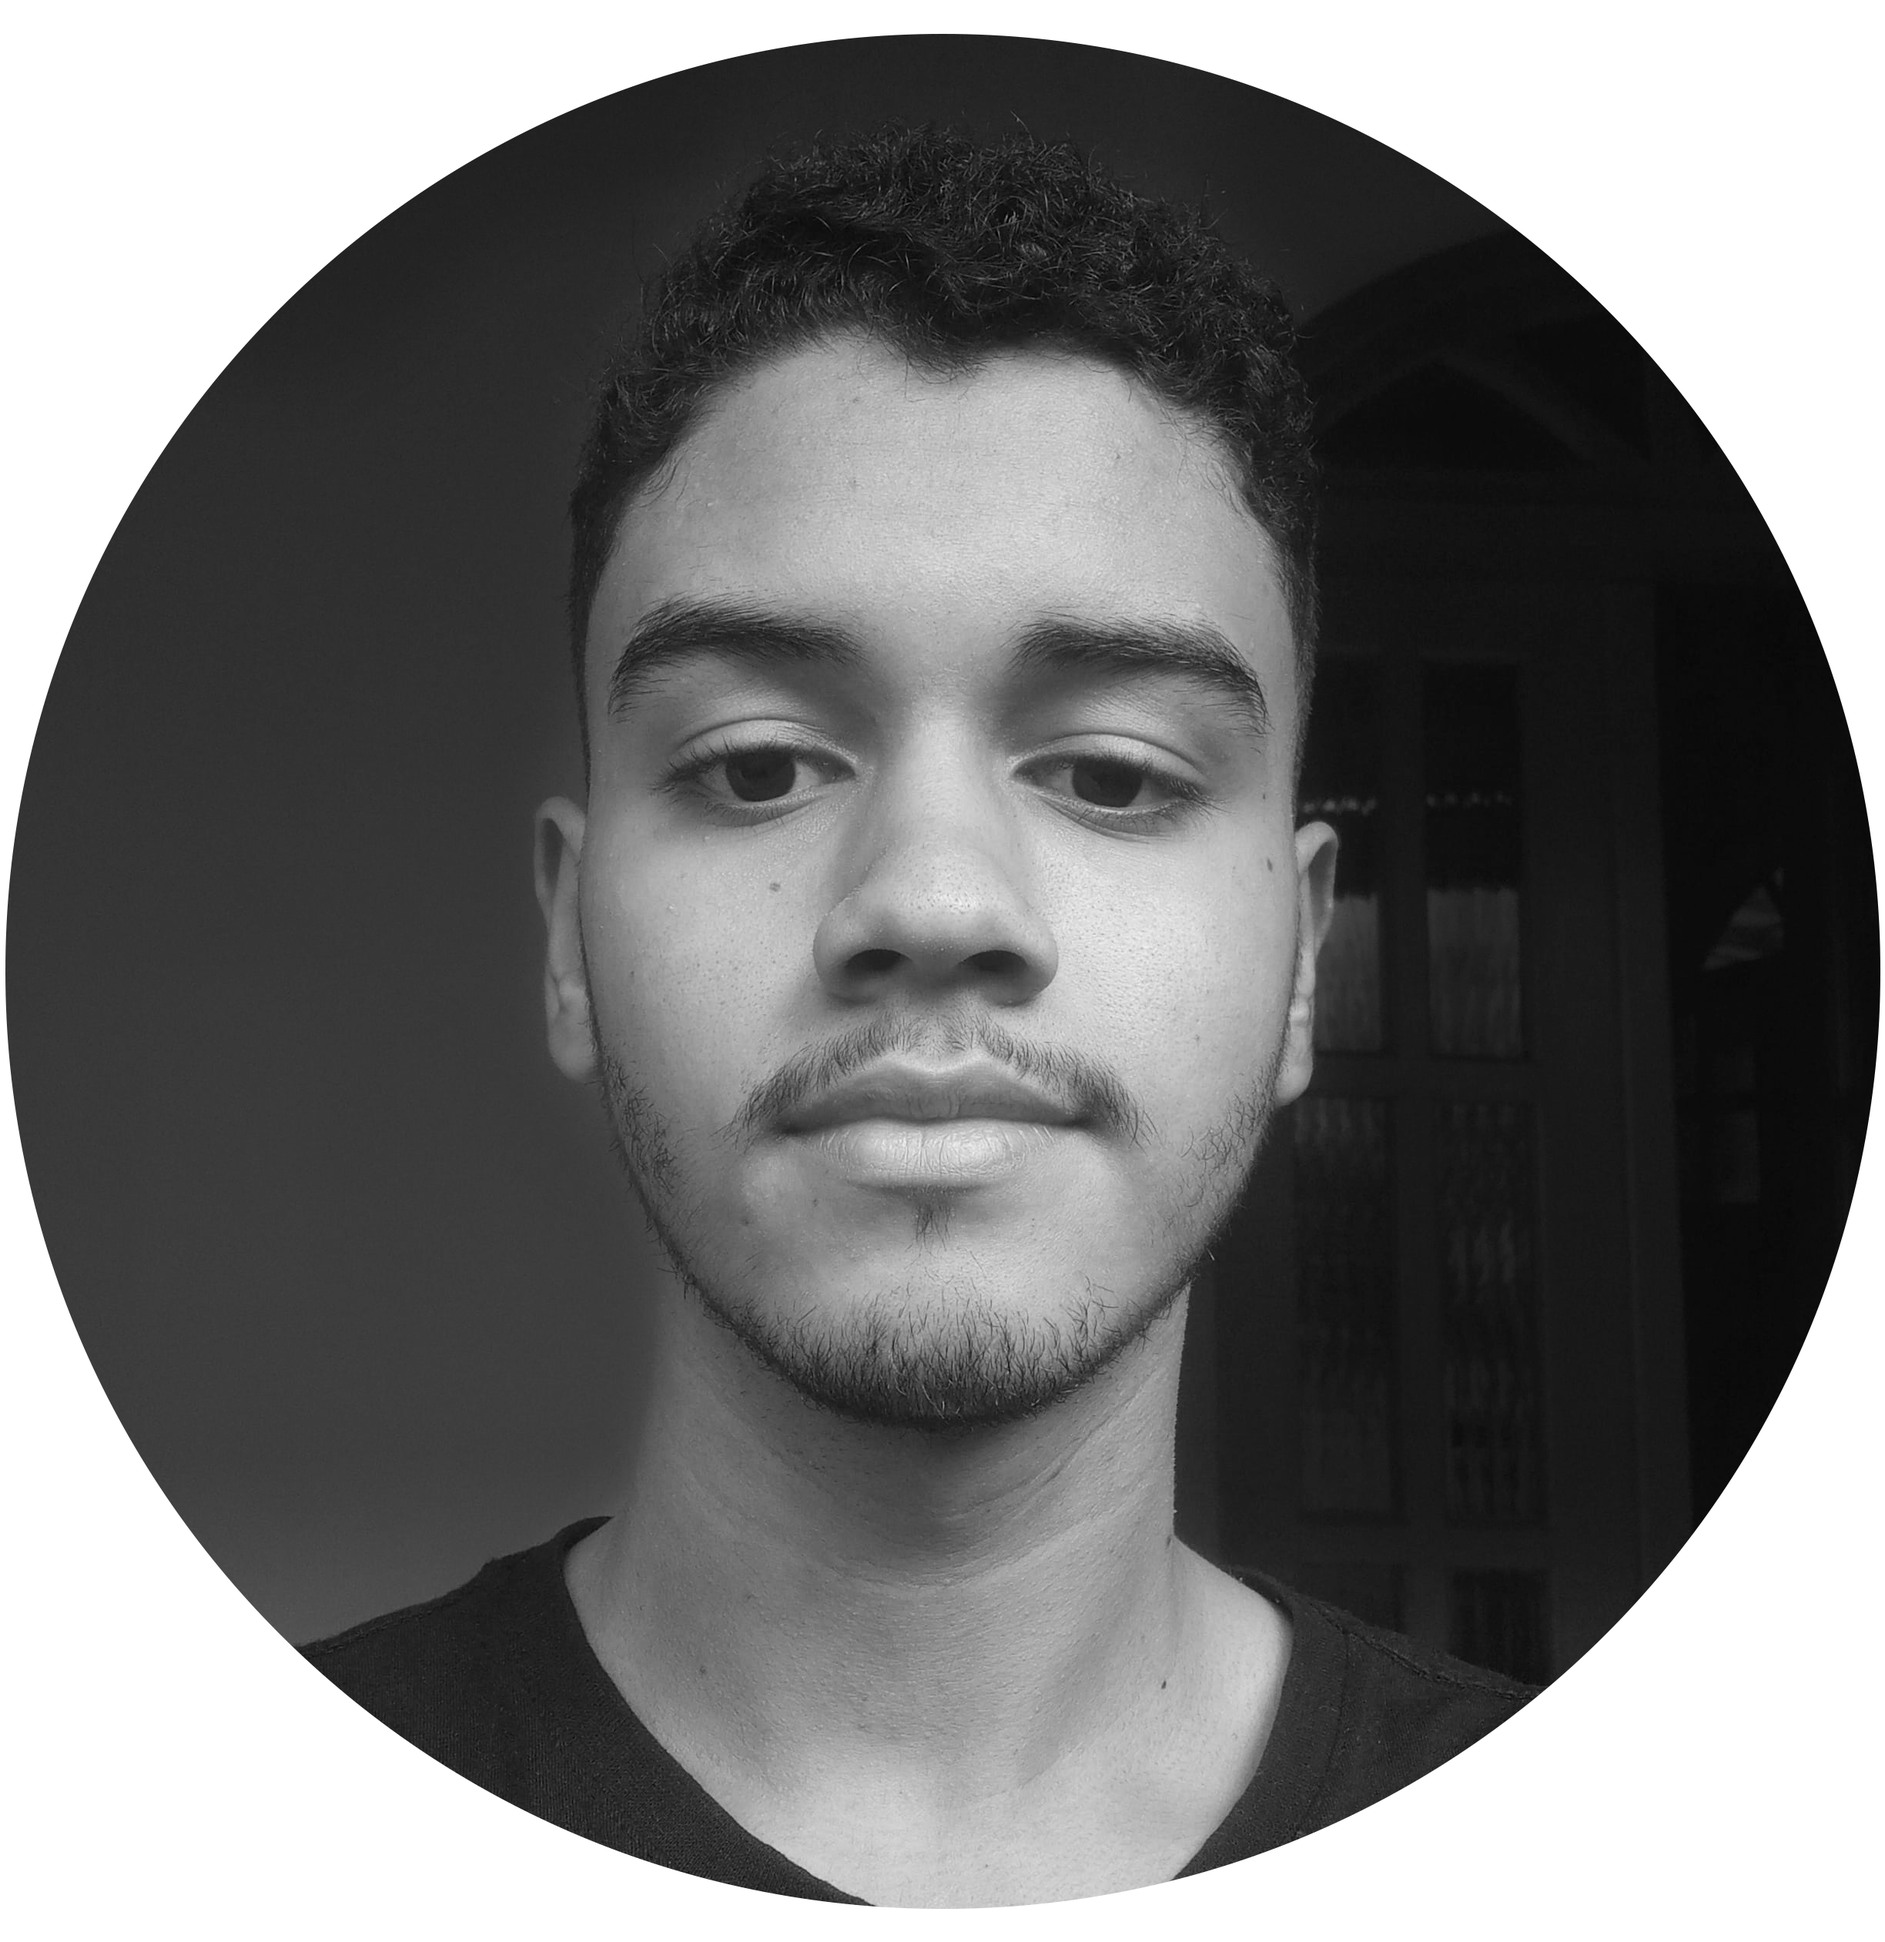
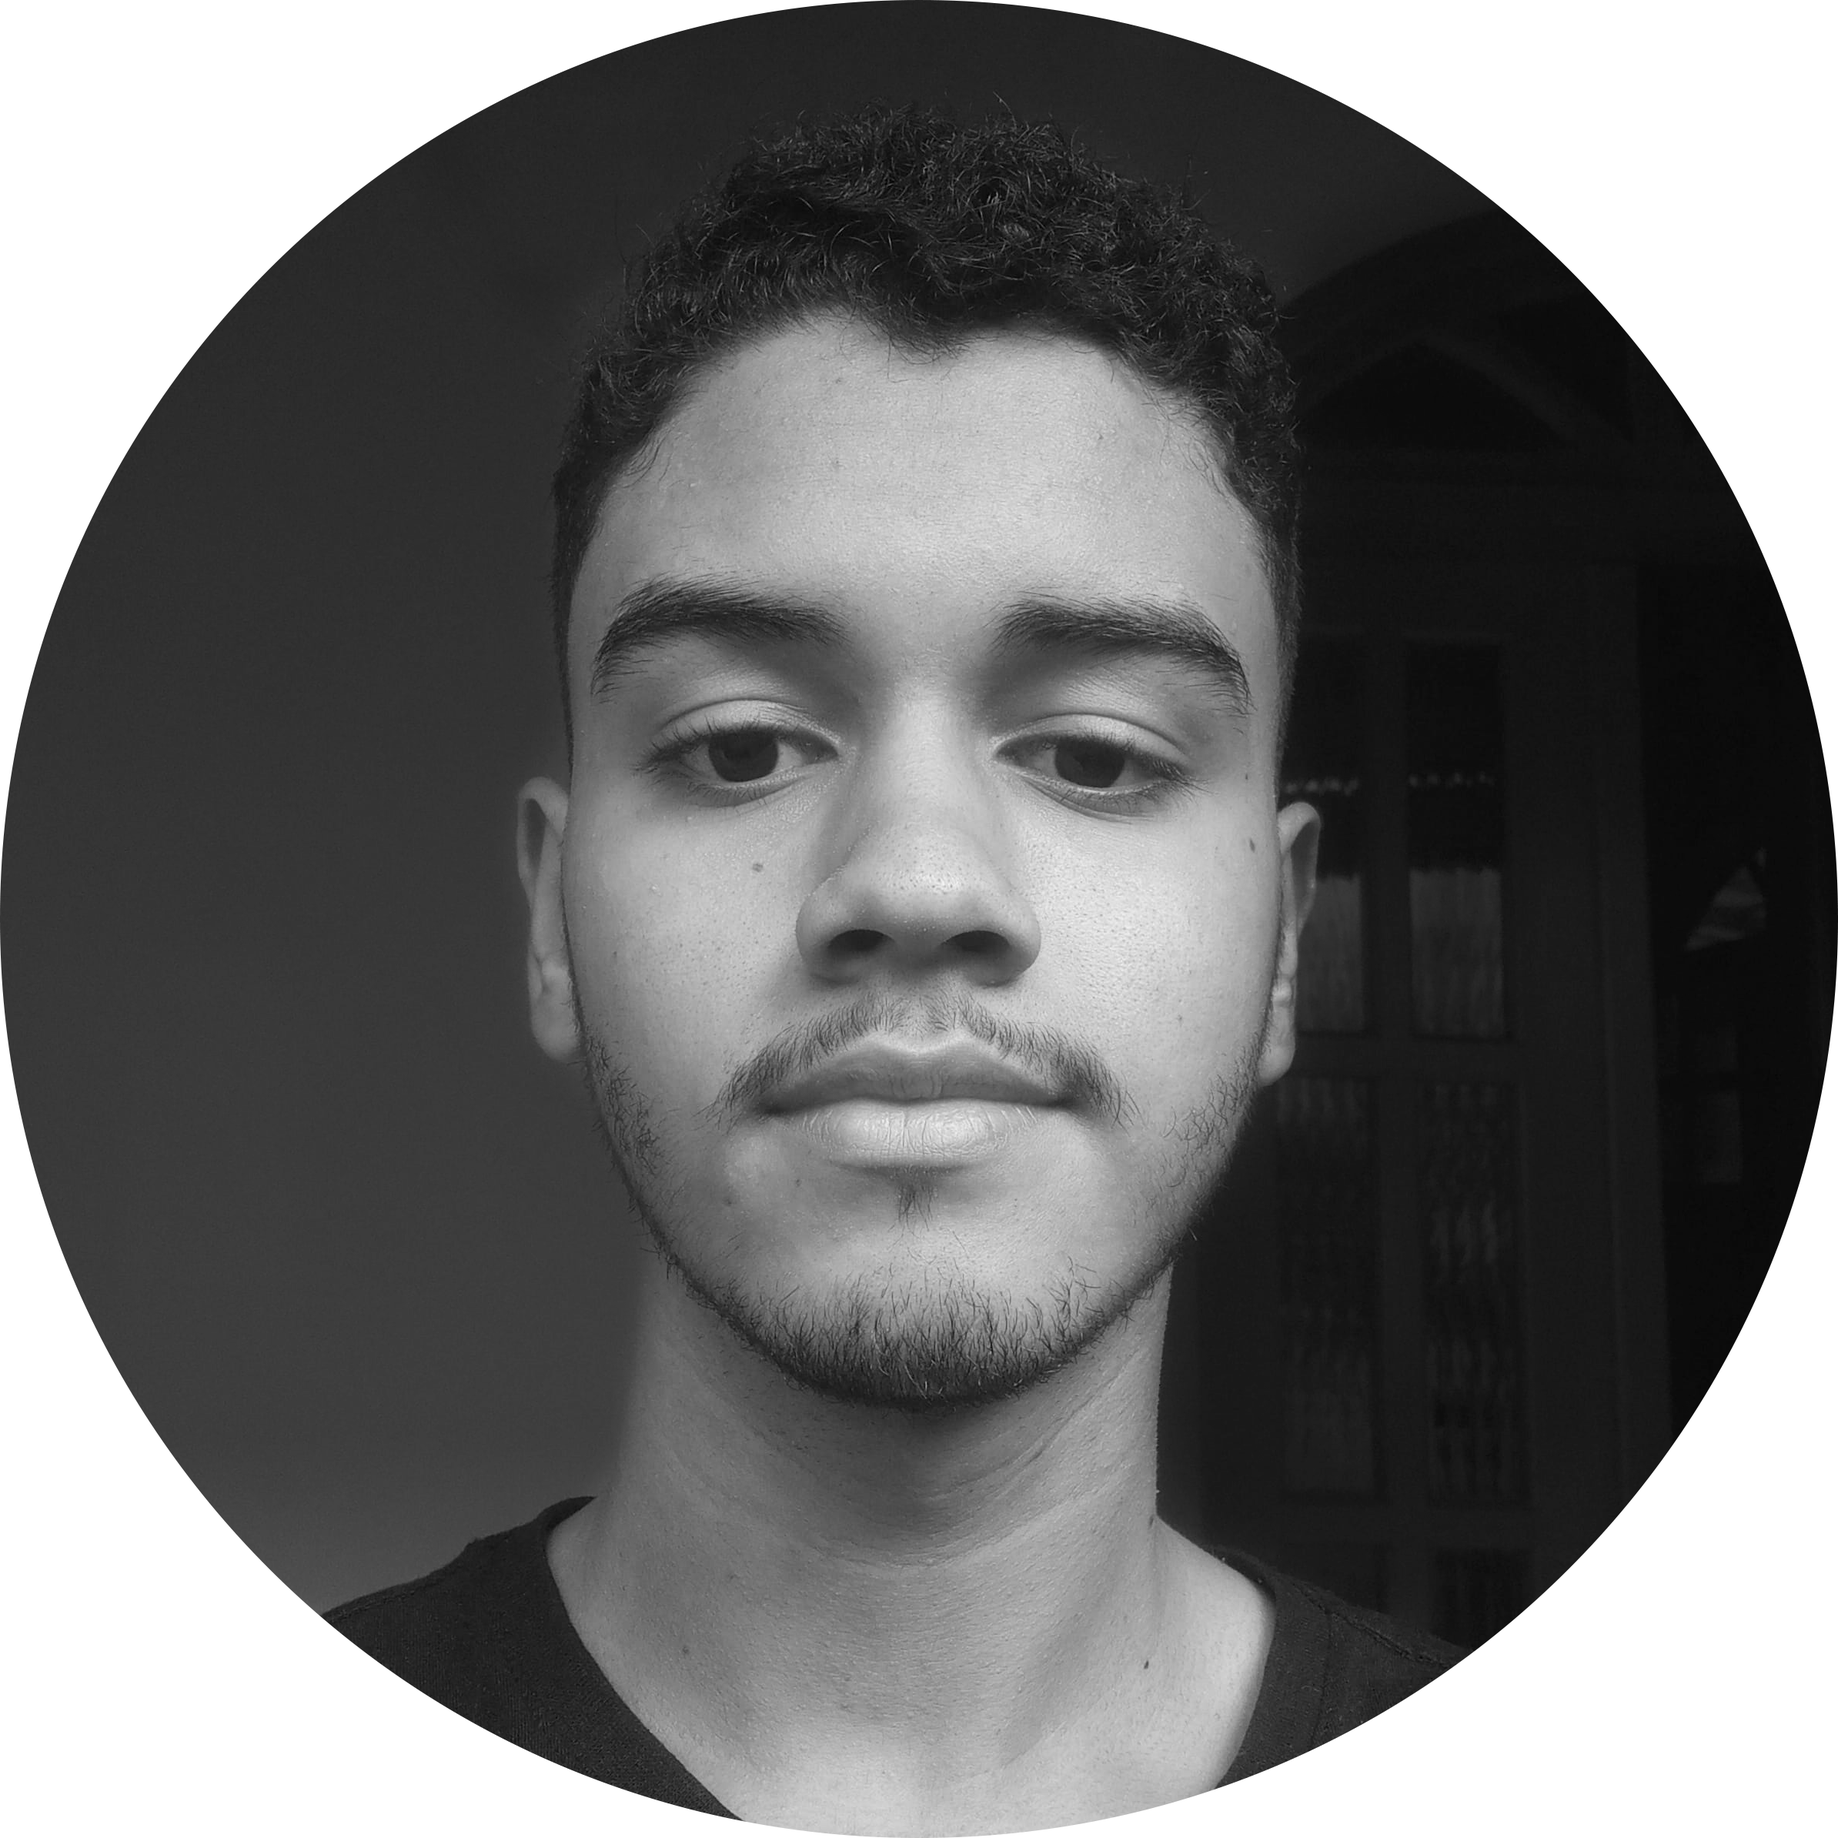
fourth commit

diff --git a/src/style.css b/src/style.css
@@ -6,6 +6,7 @@
 }
 html{
     --background: #efefef;
+    --background2: #ebebeb;
     --nav: #e3e3e3;
     --text: #383838;
     --text2: #5a5a5a;
@@ -13,7 +14,8 @@ html{
 }
 
 html[data-theme="dark"]{
-    --background:#383838 ;
+    --background:#383838;
+    --background2: #272727;
     --nav: #333333;
     --text: #efefef;
     --text2: #c2c2c2;
@@ -45,7 +47,7 @@ header{
 nav{ 
     display: flex;
     position: fixed;
-    z-index: 1;
+    z-index: 3;
     width: 100%;
     align-items: center;
     justify-content: space-around;
@@ -148,22 +150,122 @@ nav img:hover { opacity: 0.9; }
     filter: grayscale(0%);
     text-shadow: 0 0 10px;
     transform: translateY(-5px);
-
 }
 
-.scroll { margin: 230px auto 140px; }
+.scroll { margin: 28vh auto 140px; }
 
 .about-me{
-    border-top: 10px solid #ed3654;
-    margin-top: 5vh;
-    margin-bottom: 5000px;
+    background-color: var(--background2);
+    margin-top: 3vh;
+    margin-bottom: 10vh;
 }
+
+.about-me .center{
+    flex-direction: column;
+    align-items: center;
+}
+
+.about-me h1{
+    margin-top: 10vh;
+    margin-bottom: 12vh;
+    font-size: 50px;
+}
+
 .myself{
     display: flex;
+    margin-bottom: 15vh;
 }
-.myself img{
-    width: 200px;
+
+.myself p{
+    font-size: 20px;
+    width: 500px;
+    margin-top: 10px;
+    margin-left: 25vh;
+    text-align: end;
 }
+
+.photo{
+    position: relative;
+    width: 220px;
+    height: 220px;
+    border-radius: 50%;
+    overflow: hidden;
+}
+
+.photo::before{
+    content: '';
+    position: absolute;
+    inset: -50px 60px;
+    background: linear-gradient(315deg, #ed3654, #ae00ff);
+    transition: 0.25s;
+    animation: animar 6s linear infinite;
+}
+
+@keyframes animar{
+    0%{
+        transform: rotate(0deg);
+    }
+    100%{
+        transform: rotate(360deg);
+    }
+}
+
+.photo:hover::before{
+    inset: -10px 0px;
+}
+
+.photo::after{
+    content: '';
+    position: absolute;
+    inset: 5px;
+    background: var(--background);
+    border-radius: 50%;
+    z-index: 1;
+}
+
+.photo div{
+    position: absolute;
+    inset: 5px;
+    z-index: 2;
+    border-radius: 50%;
+}
+
+.photo div img{
+    position: absolute;
+    top: 0;
+    left: 0;
+    width: 100%;
+    height: 100%;
+}
+
+.skills .center{
+    flex-direction: column;
+    align-items: center;
+}
+.skills .center h1{
+    font-size: 50px;
+}
+.skills .center>p{
+    margin-top: 2vh;
+    opacity: 0.5;
+}
+.input{
+    margin-top: 5vh;
+    padding: 10px 15px;
+    width: 50%;
+    height: 12vh;
+    border: 2px solid #5a5a5a;
+    border-radius: 20px;
+    opacity: 0.85;    
+    color: var(--text);
+}
+.hard-skills{
+    margin: 999px 0;
+}
+
+
+
+
 
 
 
@@ -194,5 +296,20 @@ nav img:hover { opacity: 0.9; }
     }
     nav img{
         width: 120px;
+    }
+}
+@media screen and (max-width: 950px){
+    .about-me h1{
+        margin-bottom: 60px;
+        font-size: 40px;
+    }
+    .myself{
+        display: flex;
+        flex-direction: column;
+        align-items: center;
+    }
+    .myself p{
+        text-align: center;
+        margin: 5vh 0;
     }
 }

diff --git a/src/index.html b/src/index.html
@@ -60,12 +60,30 @@
         <div class="center">
             <h1>Sobre Mim</h1>
             <div class="myself">
-                <p></p>
-                <img src="/assets/img/foto.png" />
+                <div class="photo">
+                    <div>
+                        <img src="/assets/img/foto2.png" alt="eu">
+                    </div>
+                </div>
+                <p>Desde sempre fui apaixonado por tecnologia e com um sonho de trabalhar em alguma área dela, hoje no desenvolvimento web posso tornar meu sonho em realidade. Já tive experiências no passado como Designer Gráfico no Photoshop e Illustrator, mas atualmente venho me especializando em programação, especificamente, utilizando JavaScript.</p>
+
             </div>
         </div>
     </section>
-    <section><div class="center"></div></section>
+    <section class="skills">
+        <div class="center">
+            <h1>Habilidades</h1>
+            <p>Passe o mouse por cima das habilidades</p>
+            <div class="input">
+                <p>tecnologia usada para blabla bla e sla mais oq kkk tecnologia usada para blabla bla e sla mais oq kkktecnologia usada para blabla bla e sla mais oq kkktecnologia usada para blabla bla e sla mais oq kkktecnologia usada para blabla bla e sla mais oq kkk</p>
+            </div>
+            <div class="hard-skills">
+                <div class="skills-column-1"></div>
+                <div class="skills-column-2"></div>
+            </div>
+        </div>
+    </section>
+
     <section><div class="center"></div></section>
 
     <script src="toggle-theme.js"></script>
